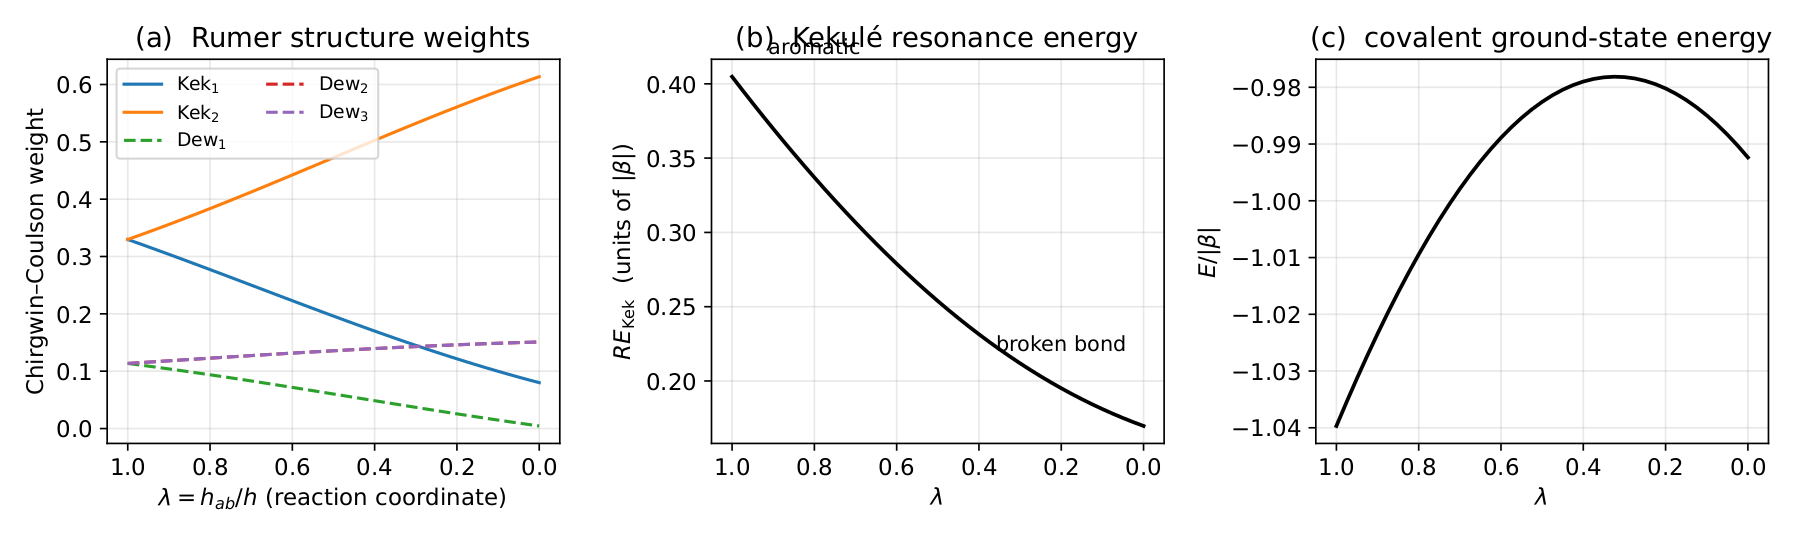
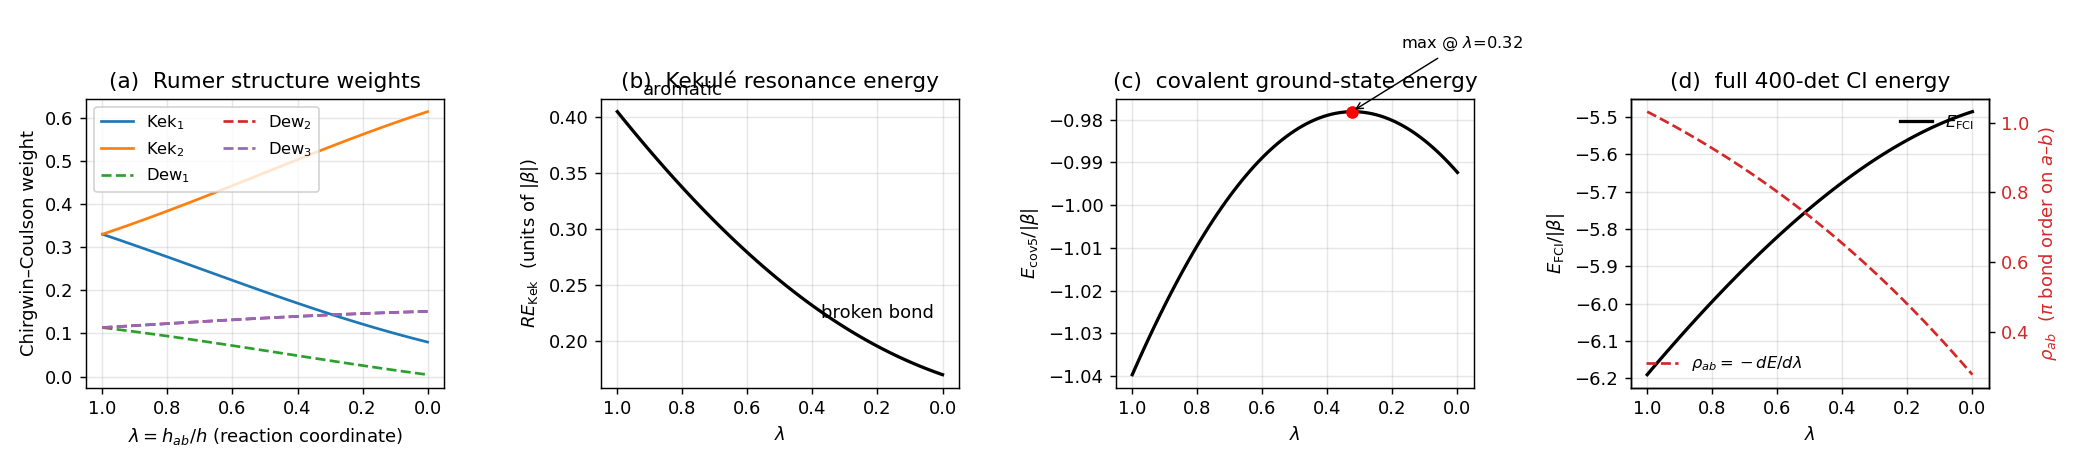
Add full-CI panel to Figure 5 aromaticity loss
figure_5_aromaticity now computes the 400-det ground state alongside
the 5-Rumer covalent curve and plots both. The full-CI scan uses
H(lambda) = H0 + lambda * (H1 - H0) linearity (two numerical builds
from the H_ab-symbolic cache), with rho_ab = -dE/dlambda via
Hellmann-Feynman on the twin axis. Motivation: the covalent-only
curve is non-monotone and flips sign over lambda in [0, 0.32], so
side-by-side comparison with the monotone full CI documents the
restricted-basis failure.

diff --git a/examples/make_figures.py b/examples/make_figures.py
@@ -315,24 +315,53 @@ def figure_5_aromaticity():
     h, s = sp.symbols('h s')
     Hab = sp.Symbol('H_ab')
     H_VAL, S_VAL = -1.0, 0.2
-    lambdas = np.linspace(1.0, 0.0, 41)
+    lambdas = np.linspace(1.0, 0.0, 81)
     weights = np.zeros((5, len(lambdas)))
     Es = np.zeros((5, len(lambdas)))
-    E_full = np.zeros(len(lambdas))
+    E_cov = np.zeros(len(lambdas))
     for i, lam in enumerate(lambdas):
         subs = {h: H_VAL, s: S_VAL, Hab: lam * H_VAL}
         Hn = np.array(Hs.subs(subs).tolist(), dtype=float)
         Sn = np.array(Ss.subs(subs).tolist(), dtype=float)
         evals, evecs = eigh(Hn, Sn)
-        E_full[i] = evals[0]
+        E_cov[i] = evals[0]
         c0 = evecs[:, 0]
         weights[:, i] = c0 * (Sn @ c0)
         Es[:, i] = [Hn[j, j] / Sn[j, j] for j in range(5)]
 
-    RE_Kek = np.min(Es[:2], axis=0) - E_full
+    RE_Kek = np.min(Es[:2], axis=0) - E_cov
 
-    fig, ax = plt.subplots(1, 3, figsize=(12, 3.6))
+    # --- full 400-det FCI scan via H(lambda) = H0 + lambda * dH --------------
+    # The full 6-orbital Sz=0 basis built with H_ab kept symbolic; H is linear
+    # in H_ab so two numerical builds (at H_ab=0 and H_ab=h) span the scan.
+    CACHE_FULL = '/tmp/benzene_full_aromaticity_HS.pkl'
+    if os.path.exists(CACHE_FULL):
+        with open(CACHE_FULL, 'rb') as f:
+            H_sym, S_sym = pickle.load(f)
+    else:
+        m_full = Molecule(
+            zero_ii=True,
+            subst={'s': ('S_ab','S_bc','S_cd','S_de','S_ef','S_af'),
+                   'h': ('H_bc','H_cd','H_de','H_ef','H_af')},
+            interacting_orbs=['ab','bc','cd','de','ef','af'])
+        m_full.generate_basis(3, 3, 6)
+        H_sym = m_full.build_matrix(m_full.basis, op='H')
+        S_sym = m_full.build_matrix(m_full.basis, op='S')
+        with open(CACHE_FULL, 'wb') as f:
+            pickle.dump((H_sym, S_sym), f)
+    H0 = np.array(H_sym.subs({h: H_VAL, s: S_VAL, Hab: 0.0}).tolist(), dtype=float)
+    H1 = np.array(H_sym.subs({h: H_VAL, s: S_VAL, Hab: H_VAL}).tolist(), dtype=float)
+    S_f = np.array(S_sym.subs({s: S_VAL}).tolist(), dtype=float)
+    dH_full = H1 - H0
+    E_fci = np.zeros(len(lambdas))
+    rho_ab = np.zeros(len(lambdas))
+    for i, lam in enumerate(lambdas):
+        evals, evecs = eigh(H0 + lam * dH_full, S_f, subset_by_index=[0, 0])
+        E_fci[i] = evals[0]
+        c0 = evecs[:, 0]
+        rho_ab[i] = -(c0 @ dH_full @ c0)   # Hellmann-Feynman: rho = -dE/dlam
 
+    fig, ax = plt.subplots(1, 4, figsize=(16, 3.6))
     colors = ['C0', 'C1', 'C2', 'C3', 'C4']
     ls = ['-', '-', '--', '--', '--']
     for j in range(5):
@@ -353,14 +382,33 @@ def figure_5_aromaticity():
     ax[1].annotate('broken bond', xy=(0.0, RE_Kek[-1]), xytext=(0.2, 0.22),
                    fontsize=10, ha='center')
 
-    ax[2].plot(lambdas, E_full, 'k-', lw=1.8, label='5-Rumer covalent')
+    ax[2].plot(lambdas, E_cov, 'k-', lw=1.8)
     ax[2].set_xlabel(r'$\lambda$')
-    ax[2].set_ylabel(r'$E  /  |\beta|$')
-    ax[2].set_title(r'(c)  covalent ground-state energy')
+    ax[2].set_ylabel(r'$E_{\rm cov5}  /  |\beta|$')
+    ax[2].set_title(r'(c)  covalent 5-structure energy')
     ax[2].grid(alpha=0.3); ax[2].invert_xaxis()
+    imax = int(np.argmax(E_cov))
+    ax[2].plot(lambdas[imax], E_cov[imax], 'ro', ms=6)
+    ax[2].annotate(fr'max @ $\lambda={lambdas[imax]:.2f}$',
+                   xy=(lambdas[imax], E_cov[imax]),
+                   xytext=(lambdas[imax] - 0.15, E_cov[imax] + 0.015),
+                   fontsize=9, arrowprops=dict(arrowstyle='->', lw=0.8))
+
+    ax[3].plot(lambdas, E_fci, 'k-', lw=1.8, label=r'$E_{\mathrm{FCI}}$')
+    ax[3].set_xlabel(r'$\lambda$')
+    ax[3].set_ylabel(r'$E_{\mathrm{FCI}}  /  |\beta|$')
+    ax[3].set_title(r'(d)  full 400-det CI energy')
+    ax[3].grid(alpha=0.3); ax[3].invert_xaxis()
+    ax3b = ax[3].twinx()
+    ax3b.plot(lambdas, rho_ab, 'C3--', lw=1.5, label=r'$\rho_{ab}=-dE/d\lambda$')
+    ax3b.set_ylabel(r'$\rho_{ab}$  ($\pi$ bond order on $a$–$b$)', color='C3')
+    ax3b.tick_params(axis='y', labelcolor='C3')
+    ax[3].legend(loc='upper right', fontsize=9, frameon=False)
+    ax3b.legend(loc='lower left', fontsize=9, frameon=False)
 
     plt.tight_layout()
     plt.savefig(os.path.join(OUTDIR, 'fig5_aromaticity.pdf'))
+    plt.savefig(os.path.join(OUTDIR, 'fig5_aromaticity.png'), dpi=130)
     plt.close()
     print('  fig5_aromaticity.pdf')
 
@@ -400,21 +448,21 @@ def figure_6_disphenoid():
     h_l_vals = [-0.15, -0.3, -0.6]
     colors = ['C0', 'C2', 'C3']
 
-    fig, ax = plt.subplots(1, 3, figsize=(12, 3.6))
+    fig, ax = plt.subplots(2, 2, figsize=(10, 7))
 
     # Panel (a):  E_elec(eta) for cation at three h_l values, with closed form
     for hl_v, col in zip(h_l_vals, colors):
         E_num = np.array([Egs(H3_0, H3_c, -1 - e / 2, -1 + e / 2, hl_v, 0) for e in etas])
-        ax[0].plot(etas, E_num, color=col, lw=1.8, label=rf'$h_l = {hl_v}$')
+        ax[0, 0].plot(etas, E_num, color=col, lw=1.8, label=rf'$h_l = {hl_v}$')
         # Overlay closed form 3 h_s - sqrt(eta^2/4 + 4 h_l^2),  h_s = -1
         E_cf = -3 - np.sqrt(etas**2 / 4 + 4 * hl_v**2)
-        ax[0].plot(etas, E_cf, color=col, ls=':', lw=1)
-    ax[0].set_xlabel(r'$\eta = h_{s,1} - h_{s,2}$')
-    ax[0].set_ylabel(r'$E_{\mathrm{elec}}(\eta) / |h_s|$')
-    ax[0].set_title(r'(a)  cation $E_{\mathrm{elec}}(\eta)$')
-    ax[0].legend(fontsize=9, loc='lower center'); ax[0].grid(alpha=0.3)
-    ax[0].text(0.6, -3.05, 'dotted: closed form', fontsize=9,
-               style='italic', color='0.3')
+        ax[0, 0].plot(etas, E_cf, color=col, ls=':', lw=1)
+    ax[0, 0].set_xlabel(r'$\eta = h_{s,1} - h_{s,2}$')
+    ax[0, 0].set_ylabel(r'$E_{\mathrm{elec}}(\eta) / |h_s|$')
+    ax[0, 0].set_title(r'(a)  cation $E_{\mathrm{elec}}(\eta)$')
+    ax[0, 0].legend(fontsize=9, loc='lower center'); ax[0, 0].grid(alpha=0.3)
+    ax[0, 0].text(0.6, -3.05, 'dotted: closed form', fontsize=9,
+                  style='italic', color='0.3')
 
     # Panel (b):  E_tot(eta) = E_elec(eta) + (1/2) k eta^2
     #             at h_l = -0.3 (k_crit = 1/(8*0.3) ~ 0.417), for several k values
@@ -428,15 +476,15 @@ def figure_6_disphenoid():
         label = f'$k = {k:.2f}$'
         if abs(k - k_crit) < 1e-6:
             label = rf'$k = k_{{\mathrm{{crit}}}} = 1/(8|h_l|) = {k_crit:.3f}$'
-            ax[1].plot(etas, Etot, 'k', lw=1.6, ls=ls, label=label)
+            ax[0, 1].plot(etas, Etot, 'k', lw=1.6, ls=ls, label=label)
         else:
-            ax[1].plot(etas, Etot, lw=1.4, ls=ls, label=label)
-    ax[1].axhline(0, color='0.6', lw=0.6)
-    ax[1].set_xlabel(r'$\eta = h_{s,1} - h_{s,2}$')
-    ax[1].set_ylabel(r'$E_{\mathrm{tot}}(\eta) - E_{\mathrm{tot}}(0)$')
-    ax[1].set_title(rf'(b)  cation  $E_{{\mathrm{{tot}}}}$ at $h_l = {hl_v}$')
-    ax[1].legend(fontsize=9); ax[1].grid(alpha=0.3)
-    ax[1].set_ylim(-0.1, 0.15)
+            ax[0, 1].plot(etas, Etot, lw=1.4, ls=ls, label=label)
+    ax[0, 1].axhline(0, color='0.6', lw=0.6)
+    ax[0, 1].set_xlabel(r'$\eta = h_{s,1} - h_{s,2}$')
+    ax[0, 1].set_ylabel(r'$E_{\mathrm{tot}}(\eta) - E_{\mathrm{tot}}(0)$')
+    ax[0, 1].set_title(rf'(b)  cation  $E_{{\mathrm{{tot}}}}$ at $h_l = {hl_v}$')
+    ax[0, 1].legend(fontsize=9); ax[0, 1].grid(alpha=0.3)
+    ax[0, 1].set_ylim(-0.1, 0.15)
 
     # Panel (c):  charge-induced reorganisation  --  4e vs 3e curvature
     eps = 0.01
@@ -450,24 +498,68 @@ def figure_6_disphenoid():
         E4_p = Egs(H4_0, H4_c, -1 - eps / 2, -1 + eps / 2, hl_v, 0)
         curv4.append(2 * (E4_p - E4_0) / eps**2)
     curv3 = np.array(curv3); curv4 = np.array(curv4)
-    ax[2].plot(np.abs(h_l_scan), curv4, 'o-', color='C0', lw=1.5, ms=4,
-               label='4e (neutral)')
-    ax[2].plot(np.abs(h_l_scan), curv3, 's-', color='C3', lw=1.5, ms=4,
-               label='3e (cation)')
+    ax[1, 0].plot(np.abs(h_l_scan), curv4, 'o-', color='C0', lw=1.5, ms=4,
+                  label='4e (neutral)')
+    ax[1, 0].plot(np.abs(h_l_scan), curv3, 's-', color='C3', lw=1.5, ms=4,
+                  label='3e (cation)')
     # closed-form prediction
-    ax[2].plot(np.abs(h_l_scan), -1 / (8 * np.abs(h_l_scan)), ':', color='C3',
-               lw=1.2, label=r'$-1/(8|h_l|)$  (Eq. 22)')
-    ax[2].axhline(0, color='0.6', lw=0.6)
-    ax[2].set_xlabel(r'$|h_l| / |h_s|$')
-    ax[2].set_ylabel(r'$\partial^2 E_{\mathrm{elec}} / \partial \eta^2$ at $\eta=0$')
-    ax[2].set_title('(c)  charge-induced pseudo-JT')
-    ax[2].legend(fontsize=9); ax[2].grid(alpha=0.3)
-    ax[2].set_ylim(-6, 0.5)
+    ax[1, 0].plot(np.abs(h_l_scan), -1 / (8 * np.abs(h_l_scan)), ':', color='C3',
+                  lw=1.2, label=r'$-1/(8|h_l|)$  (Eq. 22)')
+    ax[1, 0].axhline(0, color='0.6', lw=0.6)
+    ax[1, 0].set_xlabel(r'$|h_l| / |h_s|$')
+    ax[1, 0].set_ylabel(r'$\partial^2 E_{\mathrm{elec}} / \partial \eta^2$ at $\eta=0$')
+    ax[1, 0].set_title('(c)  charge-induced pseudo-JT')
+    ax[1, 0].legend(fontsize=9); ax[1, 0].grid(alpha=0.3)
+    ax[1, 0].set_ylim(-6, 0.5)
+
+    # Panel (d):  static-MO (frozen psi_4) vs relaxed-MO, + SOMO hole density
+    #   Demonstrates that the pseudo-JT curvature is entirely due to the
+    #   psi_1 <-> psi_4 mixing under eta.  Freezing the MOs at eta=0 gives a
+    #   flat E(eta) and a 50/50 hole distribution for all eta (Class III at
+    #   every geometry), while relaxing the MOs produces both the energy
+    #   lowering and the progressive hole localisation onto the weaker H-H pair.
+    hs_base = -1.0
+    hl_v = -0.3
+    etas_d = np.linspace(-1.0, 1.0, 201)
+    E_stat_const = 3 * hs_base + 2 * hl_v  # 2*eps_1(0) + eps_4(0), eta-independent
+    E_relax_d = np.empty_like(etas_d)
+    hole_ab = np.empty_like(etas_d)  # hole density on pair (a,b) in the SOMO
+    for j, e in enumerate(etas_d):
+        # eta = h_{s,1} - h_{s,2}: e>0 makes |h_s1| smaller -> weaker a-b -> hole on (a,b)
+        hs1 = hs_base + e / 2
+        hs2 = hs_base - e / 2
+        H4_1e = np.array([[0, hs1, hl_v, hl_v],
+                          [hs1, 0, hl_v, hl_v],
+                          [hl_v, hl_v, 0, hs2],
+                          [hl_v, hl_v, hs2, 0]])
+        w, V = np.linalg.eigh(H4_1e)
+        E_relax_d[j] = 2 * w[0] + w[1]     # doubly occupy lowest, singly occupy next
+        somo = V[:, 1]                      # SOMO = 2nd lowest MO
+        hole_ab[j] = somo[0]**2 + somo[1]**2
+
+    ax_d = ax[1, 1]
+    ax_dr = ax_d.twinx()
+    ln1, = ax_d.plot(etas_d, E_relax_d, 'C0-', lw=1.8,
+                     label=r'relaxed MO ($\psi_4 \to \psi_4\'(\eta)$)')
+    ln2, = ax_d.plot(etas_d, np.full_like(etas_d, E_stat_const), 'C3--', lw=1.4,
+                     label=r'frozen $\psi_4$ (Aufbau at $\eta=0$)')
+    ln3, = ax_dr.plot(etas_d, hole_ab, color='C2', ls=':', lw=2.0,
+                      label='hole on pair $(a,b)$')
+    ax_dr.axhline(0.5, color='0.7', lw=0.6, ls=':')
+    ax_dr.set_ylim(0, 1)
+    ax_d.set_xlabel(r'$\eta = h_{s,1} - h_{s,2}$')
+    ax_d.set_ylabel(r'$E_{\mathrm{elec}}(\eta) / |h_s|$', color='0.2')
+    ax_dr.set_ylabel(r'hole density on $(a,b)$', color='C2')
+    ax_dr.tick_params(axis='y', labelcolor='C2')
+    ax_d.set_title(rf'(d)  static vs relaxed MO at $h_l = {hl_v}$')
+    ax_d.legend(handles=[ln1, ln2, ln3], fontsize=8, loc='lower center')
+    ax_d.grid(alpha=0.3)
 
     plt.tight_layout()
     plt.savefig(os.path.join(OUTDIR, 'fig6_disphenoid.pdf'))
+    plt.savefig(os.path.join(OUTDIR, 'fig6_disphenoid.png'), dpi=150)
     plt.close()
-    print('  fig6_disphenoid.pdf')
+    print('  fig6_disphenoid.pdf / .png')
 
 
 # =======================================================================